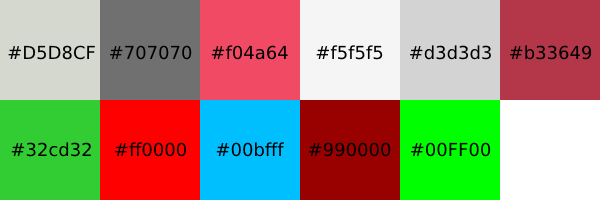
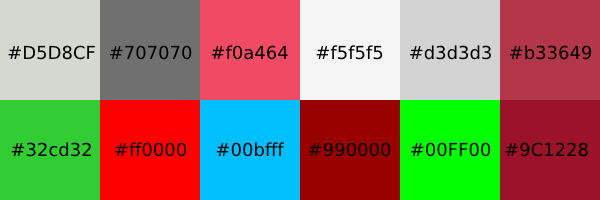
docs: update features section in README.md

Changed region(s): [[0.81, 0.48, 1.0, 1.0], [0.39, 0.24, 0.45, 0.3]]

diff --git a/README.md b/README.md
@@ -99,6 +99,8 @@ The following colours were used throughout the webpage:
       - Colour used in 'wrong' button (pressed) on practice page.
    - Hex: #00FF00: limegreen colour
       - Colour used in scoreboard (correct answers), and 'correct' button (pressed) on practice page.
+   - Hex: #9C1228: dark red
+      - Colour used in border colour of buttons.
 
 
 <img src="assets/images-readme/colour-scheme.png" alt="colour scheme"><br>
@@ -197,26 +199,28 @@ Proper styling has been done regarding the colours, see 'colour scheme' section 
 
 ### How to Use Page
 On the 'How to use' page, the end-user can find a small manual on how to use the website. Special attention is given to the 'Practice' and 'Editor' pages. Images are implemented to help the end-user easily understand how the website works. The page is responsive on smaller devices.
+Proper styling has been done regarding the colours, see 'colour scheme' section in this README file for more information.
 
 
 ### Contact Page
-On the 'contact' page you can find a submission form including 3 text fields (first name, last name, e-mail address) and a text area (your message). All fields are mandatory fields and need to be filled in before you can press the 'Submit' button. When done correctly, a message will be shown on the screen telling the end-user the form input has been sent or not.
+On the 'Contact' page you can find a submission form including 3 text fields (first name, last name, e-mail address) and a text area (your message). All fields are mandatory fields and need to fill before you can press the 'Submit' button. When done correctly, a message will be shown on the screen telling the end-user the form has been sent or not.
+Proper styling has been done regarding the colours, see 'colour scheme' section in this README file for more information.
 
 
 ### h2 Heading
-Every page as a h2 heading added describing the main purpose of the page. For consistency, sizing and colour (dark gray) of the h2 heading are chosen all the same on every page.
+Every page as an h2 heading added including a [fontawesome](https://www.fontawesome.com/) icon describing the main purpose of the page. For consistency, sizing and colour (dark gray) of the h2 heading are chosen all the same on every page.
 
 
 ### Paragraphs
-For consistency, sizing and colour (dark gray) of the <p> paragraphs are chosen all the same on every page.
+For consistency, sizing and colour (dark gray) of the paragraphs are chosen all the same on every page.
 
 
 ### Links
-The only links on the website you can find are in the navigation bar/menu.
+Anchor links are introduced in the navigation bar and on the 'Index' and 'How to use' pages. Having a pink-orange colour as described in the 'Colour scheme' section of this README file.
 
 
 ### Buttons
-For consistency, all buttons are sized and styled the same way. A dark red colour for the border, an orange/pink background colour, and a smokewhite colour for the fonts are used. 
+For consistency, all buttons are sized and styled the same way. A dark red colour for the border, an orange-pink background colour, and a smokewhite colour for the fonts are used as described in the 'Colour scheme' section in this README file.
 
 <img src="assets/images-readme/button.png" alt="typical call for action button"><br>
 <sub>Typical call for action button</sub>
